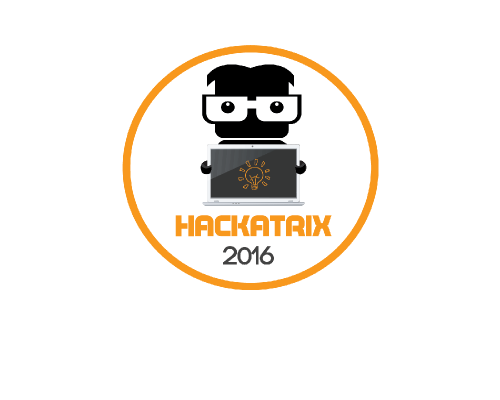
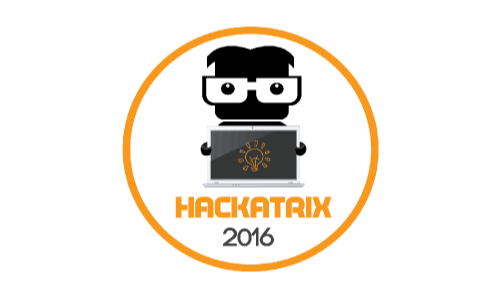
adding images, style and menu mediaQueries

Changed region(s): [[0.24, 0.06, 0.78, 0.93]]

diff --git a/source/views/header.view.html b/source/views/header.view.html
@@ -1,9 +1,9 @@
 <md-toolbar md-scroll-shrink>
   <div class="md-toolbar-tools">
-    <h1 class="mr-40 pd-t-5">
+    <div id="logoHackatrix">
       <img width="240" height="80" src="images/logo.png">
-    </h1>
-    <md-content flex ng-show="!state.is('thanksVote')">
+    </div>
+    <md-content id="menuTab" flex ng-show="!state.is('thanksVote')">
       <md-tabs class="md-default" md-dynamic-height>
         <md-tab md-active="state.is('voteList')" label="Vote List" ui-sref="voteList">
         </md-tab>
@@ -16,21 +16,20 @@
     </md-button-->
 
 
-    <md-menu>
+    <md-menu id="menuDrop">
       <md-button aria-label="Open phone interactions menu" class="md-icon-button" ng-click="openMenu($mdOpenMenu, $event)">
         <md-icon md-menu-origin md-svg-icon="more-vert"></md-icon>
       </md-button>
       <md-menu-content width="4">
         <md-menu-item>
-          <md-button ng-click="">
-            <md-icon md-svg-icon="call:dialpad" md-menu-align-target></md-icon>
+          <md-button ui-sref="voteList">
+            <md-icon md-svg-icon="list" md-menu-align-target></md-icon>
             Vote List
           </md-button>
         </md-menu-item>
-        <md-menu-divider></md-menu-divider>
         <md-menu-item>
-          <md-button ng-click="ctrl.checkVoicemail()">
-            <md-icon md-svg-icon="call:voicemail"></md-icon>
+          <md-button ui-sref="voteResult">
+            <md-icon md-svg-icon="chart"></md-icon>
             Vote Result
           </md-button>
         </md-menu-item>

diff --git a/source/scripts/app.js b/source/scripts/app.js
@@ -1,6 +1,7 @@
 (function() {
 
     var app = angular.module('app', [
+        'ngAnimate',
         'ngRoute',
         'ngResource',
         'ngMaterial',
@@ -81,32 +82,12 @@
                       .icon("search", "svg/search.svg", 24)
                       .icon("close-light", "svg/close-light.svg", 24)
                       .icon("more-vert", "svg/ic_more_vert.svg", 24)
+                      .icon("list", "svg/list.svg", 24)
+                      .icon("chart", "svg/chart.svg", 24)
                       .icon("close", "svg/close.svg", 24);
 
         $mdThemingProvider.theme('default').primaryPalette('orange')
-            .accentPalette('hackatrix-blue', {
-              'default': '50',
-              'hue-1': '100',
-              'hue-2': '200'
-            });
-
-        $mdThemingProvider.definePalette('hackatrix-blue', {
-          '50': '3098BE',
-          '100': '9BD5EB',
-          '200': 'C5E1EB',
-          '300': '63C3E6',
-          '400': 'A6D8EB',
-          '500': 'C4D9E0',
-          '600': '84D3F0',
-          '700': '3098BE',
-          '800': '3098BE',
-          '900': '3098BE',
-          'A100': '3098BE',
-          'A200': '3098BE',
-          'A400': '3098BE',
-          'A700': '3098BE',
-          'contrastDefaultColor': 'light',
-        });
+            .accentPalette('light-blue');
         
     });
 

diff --git a/source/css/sass/main.scss b/source/css/sass/main.scss
@@ -110,12 +110,6 @@ md-content .article p{
 	position: relative;
 }
 
-@media(max-width:1280px){
-	#container{
-		width: 100%;
-	}
-}
-
 section{
 	width: 100%;
 }
@@ -134,7 +128,35 @@ md-list{
 
 md-list-item{
 	background: #FFF;
-	border-bottom: 1px dashed #CCC;
+	border-bottom: 1px solid #E6E6E6;
+}
+
+.font-right{
+	text-align: right !important;
+}
+
+.font-left{
+	text-align: left !important;
+}
+
+md-list-item.active a div{
+
+	color: #2196F3;
+
+}
+
+#menuTab{
+	display: block;
+}
+
+#menuDrop{
+	display: none;
+}
+
+@media(max-width:1280px){
+	#container{
+		width: 100%;
+	}
 }
 
 @media(max-width:1024px){
@@ -152,16 +174,21 @@ md-list-item{
 	}
 }
 
-.font-right{
-	text-align: right !important;
-}
+@media(max-width:450px){
+	md-list{
+		width:100%;
+	}
 
-.font-left{
-	text-align: left !important;
-}
+	#logoHackatrix{
+		position: relative;
+		left: 0px;
+	}
 
-md-list-item.active a div{
+	#menuTab{
+		display: none;
+	}
 
-	color: #2196F3;
-
+	#menuDrop{
+		display: block;
+	}
 }

diff --git a/template/distro/index.html b/template/distro/index.html
@@ -4,6 +4,7 @@
     <head>
         <title>Hackatrix 2016 Ideas Voting</title>
         <meta name="viewport" content="width=device-width, minimum-scale=1.0, initial-scale=1.0, user-scalable=yes">
+        <meta name="apple-mobile-web-app-capable" content="yes">
         <link href='https://fonts.googleapis.com/css?family=Roboto' rel='stylesheet' type='text/css'>
         <!-- build:style bundle -->
         <!-- /build -->

diff --git a/source/css/sass/vars.scss b/source/css/sass/vars.scss
@@ -1,5 +1,5 @@
 $white:    #FFFFFF;
-$background-color:    #FDEBD1;
+$background-color:    #FCE6DB;
 $primary-color: #000;
 $secondary-color: #333;
 $active-color: #444;
